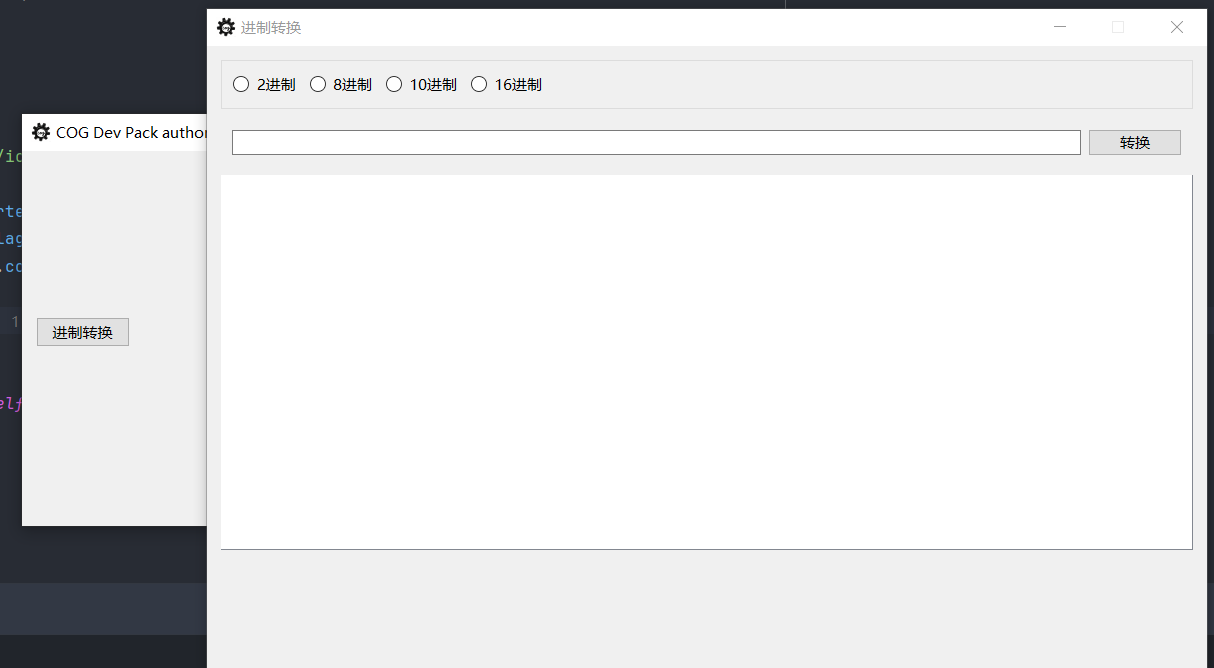
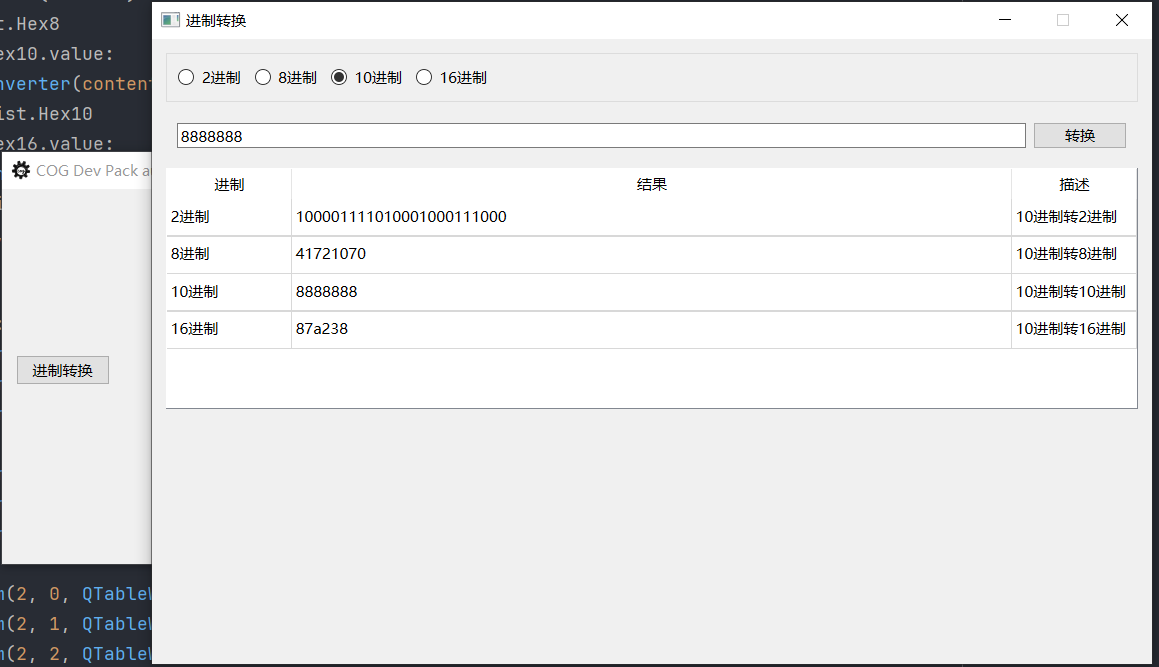
release@add converter win

diff --git a/hex_converter.py b/hex_converter.py
@@ -1,11 +1,125 @@
-from PySide6.QtWidgets import QMainWindow, QWidget
+from enum import Enum
+
+from PySide6.QtWidgets import QMainWindow, QWidget, QHeaderView, QRadioButton, QTableWidgetItem
 
 from _ui.uhexconverter import Ui_UHexConverter
 
 
+class _HexList(Enum):
+    Hex2 = "2进制"
+    Hex8 = "8进制"
+    Hex10 = "10进制"
+    Hex16 = "16进制"
+
+
+class _Result:
+    def __init__(self):
+        self.b2 = None
+        self.b8 = None
+        self.b10 = None
+        self.b16 = None
+
+
 class HexConverter(QWidget):
-    def __init__(self,parent):
+    def __init__(self, parent=None):
         super().__init__(parent)
-        self.ui=Ui_UHexConverter()
+        self.ui = Ui_UHexConverter()
         self.ui.setupUi(self)
         self.setWindowTitle("进制转换")
+        self.init_table()
+        self.render_table(_Result(),_HexList.Hex10)
+
+        self.ui.conver_btn.clicked.connect(self.on_converter)
+
+    def on_converter(self):
+        current_checked = None
+        current_input_text = self.ui.content_input.text()
+        for item in self.ui.radio_group.findChildren(QRadioButton):
+            if item.isChecked():
+                current_checked = item.text()
+        if current_checked and current_input_text:
+            self.update_result(current_checked, current_input_text)
+
+    def update_result(self, hex_t: _HexList, content):
+        result=_Result()
+        current_type=_HexList.Hex2
+        if hex_t == _HexList.Hex2.value:
+           result=self.b2_converter(content)
+           current_type=_HexList.Hex2
+        elif hex_t==_HexList.Hex8.value:
+            result=self.b8_converter(content)
+            current_type=_HexList.Hex8
+        elif hex_t == _HexList.Hex10.value:
+            result = self.b10_converter(content)
+            current_type = _HexList.Hex10
+        elif hex_t == _HexList.Hex16.value:
+            result = self.b16_converter(content)
+            current_type = _HexList.Hex16
+        self.render_table(result,current_type)
+
+
+    def render_table(self,result:_Result,current_type:_HexList):
+        self.ui.res_table.setItem(0,0,QTableWidgetItem(_HexList.Hex2.value))
+        self.ui.res_table.setItem(0,1,QTableWidgetItem(result.b2))
+        self.ui.res_table.setItem(0,2,QTableWidgetItem(f"{current_type.value}转2进制"))
+
+        self.ui.res_table.setItem(1, 0, QTableWidgetItem(_HexList.Hex8.value))
+        self.ui.res_table.setItem(1, 1, QTableWidgetItem(result.b8))
+        self.ui.res_table.setItem(1, 2, QTableWidgetItem(f"{current_type.value}转8进制"))
+
+        self.ui.res_table.setItem(2, 0, QTableWidgetItem(_HexList.Hex10.value))
+        self.ui.res_table.setItem(2, 1, QTableWidgetItem(result.b10))
+        self.ui.res_table.setItem(2, 2, QTableWidgetItem(f"{current_type.value}转10进制"))
+
+        self.ui.res_table.setItem(3, 0, QTableWidgetItem(_HexList.Hex16.value))
+        self.ui.res_table.setItem(3, 1, QTableWidgetItem(result.b16))
+        self.ui.res_table.setItem(3, 2, QTableWidgetItem(f"{current_type.value}转16进制"))
+
+    @staticmethod
+    def b16_converter(b16_str):
+        result=_Result()
+        result.b2=bin(int(b16_str,16))[2:]
+        result.b8=oct(int(b16_str,16))[2:]
+        result.b10=str(int(b16_str,16))
+        result.b16=b16_str
+        return result
+
+    @staticmethod
+    def b10_converter(b10_str):
+        result=_Result()
+        result.b2=bin(int(b10_str,10))[2:]
+        result.b8=oct(int(b10_str,10))[2:]
+        result.b10=b10_str
+        result.b16=hex(int(b10_str,10))[2:]
+        return result
+
+    @staticmethod
+    def b8_converter(b8_str):
+        result=_Result()
+        result.b2=bin(int(b8_str,8))[2:]
+        result.b8=b8_str
+        result.b10=str(int(b8_str,8))
+        result.b16=hex(int(b8_str,8))[2:]
+        return result
+
+    @staticmethod
+    def b2_converter(b2_str):
+        result=_Result()
+        result.b2=b2_str
+        result.b8=oct(int(b2_str,2))[2:]
+        result.b10=str(int(b2_str,2))
+        result.b16=hex(int(b2_str,2))[2:]
+        return result
+
+    def init_table(self):
+        self.ui.res_table.verticalHeader().setVisible(False)
+        self.ui.res_table.setColumnCount(3)
+        self.ui.res_table.setRowCount(4)
+        self.ui.res_table.setHorizontalHeaderLabels(["进制", "结果", "描述"])
+        header = self.ui.res_table.horizontalHeader()
+        header.setStyleSheet("border-bottom: 2px solid #888;")
+        header.setSectionResizeMode(0, QHeaderView.Fixed)  # 第1列固定宽度
+        header.setSectionResizeMode(1, QHeaderView.Stretch)  # 第2列自动填充
+        header.setSectionResizeMode(2, QHeaderView.Fixed)  # 第3列固定宽度
+        self.ui.res_table.setColumnWidth(0, 100)  # 第1列宽度
+        self.ui.res_table.setColumnWidth(2, 100)  # 第3列宽度

diff --git a/_ui/uhexconverter.py b/_ui/uhexconverter.py
@@ -30,9 +30,25 @@ class Ui_UHexConverter(object):
         UHexConverter.setBaseSize(QSize(800, 500))
         self.gridLayout = QGridLayout(UHexConverter)
         self.gridLayout.setObjectName(u"gridLayout")
-        self.verticalSpacer = QSpacerItem(20, 40, QSizePolicy.Policy.Minimum, QSizePolicy.Policy.Expanding)
+        self.widget = QWidget(UHexConverter)
+        self.widget.setObjectName(u"widget")
+        self.widget.setMinimumSize(QSize(0, 40))
+        self.widget.setMaximumSize(QSize(16777215, 40))
+        self.widget.setBaseSize(QSize(0, 40))
+        self.horizontalLayout_2 = QHBoxLayout(self.widget)
+        self.horizontalLayout_2.setObjectName(u"horizontalLayout_2")
+        self.content_input = QLineEdit(self.widget)
+        self.content_input.setObjectName(u"content_input")
 
-        self.gridLayout.addItem(self.verticalSpacer, 4, 0, 1, 1)
+        self.horizontalLayout_2.addWidget(self.content_input)
+
+        self.conver_btn = QPushButton(self.widget)
+        self.conver_btn.setObjectName(u"conver_btn")
+
+        self.horizontalLayout_2.addWidget(self.conver_btn)
+
+
+        self.gridLayout.addWidget(self.widget, 1, 0, 1, 1)
 
         self.radio_group = QGroupBox(UHexConverter)
         self.radio_group.setObjectName(u"radio_group")
@@ -69,52 +85,14 @@ class Ui_UHexConverter(object):
 
         self.gridLayout.addWidget(self.radio_group, 0, 0, 1, 1)
 
-        self.widget = QWidget(UHexConverter)
-        self.widget.setObjectName(u"widget")
-        self.widget.setMinimumSize(QSize(0, 40))
-        self.widget.setMaximumSize(QSize(16777215, 40))
-        self.widget.setBaseSize(QSize(0, 40))
-        self.horizontalLayout_2 = QHBoxLayout(self.widget)
-        self.horizontalLayout_2.setObjectName(u"horizontalLayout_2")
-        self.lineEdit = QLineEdit(self.widget)
-        self.lineEdit.setObjectName(u"lineEdit")
+        self.verticalSpacer = QSpacerItem(20, 40, QSizePolicy.Policy.Minimum, QSizePolicy.Policy.Expanding)
 
-        self.horizontalLayout_2.addWidget(self.lineEdit)
+        self.gridLayout.addItem(self.verticalSpacer, 3, 0, 1, 1)
 
-        self.pushButton = QPushButton(self.widget)
-        self.pushButton.setObjectName(u"pushButton")
+        self.res_table = QTableWidget(UHexConverter)
+        self.res_table.setObjectName(u"res_table")
 
-        self.horizontalLayout_2.addWidget(self.pushButton)
-
-
-        self.gridLayout.addWidget(self.widget, 1, 0, 1, 1)
-
-        self.table = QTableWidget(UHexConverter)
-        if (self.table.rowCount() < 1):
-            self.table.setRowCount(1)
-        self.table.setObjectName(u"table")
-        self.table.setMinimumSize(QSize(0, 300))
-        self.table.setMaximumSize(QSize(16777215, 300))
-        self.table.setBaseSize(QSize(0, 300))
-        self.table.setShowGrid(True)
-        self.table.setGridStyle(Qt.PenStyle.SolidLine)
-        self.table.setSortingEnabled(True)
-        self.table.setWordWrap(True)
-        self.table.setCornerButtonEnabled(False)
-        self.table.setRowCount(1)
-        self.table.setColumnCount(0)
-        self.table.horizontalHeader().setVisible(False)
-        self.table.horizontalHeader().setCascadingSectionResizes(False)
-        self.table.horizontalHeader().setDefaultSectionSize(230)
-        self.table.horizontalHeader().setHighlightSections(True)
-        self.table.horizontalHeader().setProperty(u"showSortIndicator", True)
-        self.table.horizontalHeader().setStretchLastSection(True)
-        self.table.verticalHeader().setVisible(False)
-        self.table.verticalHeader().setCascadingSectionResizes(False)
-        self.table.verticalHeader().setProperty(u"showSortIndicator", True)
-        self.table.verticalHeader().setStretchLastSection(False)
-
-        self.gridLayout.addWidget(self.table, 3, 0, 1, 1)
+        self.gridLayout.addWidget(self.res_table, 2, 0, 1, 1)
 
 
         self.retranslateUi(UHexConverter)
@@ -124,11 +102,11 @@ class Ui_UHexConverter(object):
 
     def retranslateUi(self, UHexConverter):
         UHexConverter.setWindowTitle(QCoreApplication.translate("UHexConverter", u"Form", None))
+        self.conver_btn.setText(QCoreApplication.translate("UHexConverter", u"\u8f6c\u6362", None))
         self.radio_group.setTitle("")
         self.radio_2.setText(QCoreApplication.translate("UHexConverter", u"2\u8fdb\u5236", None))
         self.radio_8.setText(QCoreApplication.translate("UHexConverter", u"8\u8fdb\u5236", None))
         self.radio_10.setText(QCoreApplication.translate("UHexConverter", u"10\u8fdb\u5236", None))
         self.radio_16.setText(QCoreApplication.translate("UHexConverter", u"16\u8fdb\u5236", None))
-        self.pushButton.setText(QCoreApplication.translate("UHexConverter", u"\u8f6c\u6362", None))
     # retranslateUi
 

diff --git a/main.py b/main.py
@@ -21,8 +21,8 @@ class MainWindow(QWidget):
         self.setWindowTitle(config.title)
         self.setWindowIcon(QIcon(":/icons/icons/lg.png"))
 
-        self.hex_converter_win = HexConverter(self)
-        self.hex_converter_win.setWindowFlags(Qt.Window | Qt.WindowStaysOnTopHint)
+        self.hex_converter_win = HexConverter()
+        # self.hex_converter_win.setWindowFlags(Qt.Window | Qt.WindowStaysOnTopHint)
         self.ui.hex_converter_btn.clicked.connect(lambda:self.on_to_router(GRoutes.HexConverter))
 
     def on_to_router(self,route:GRoutes):
